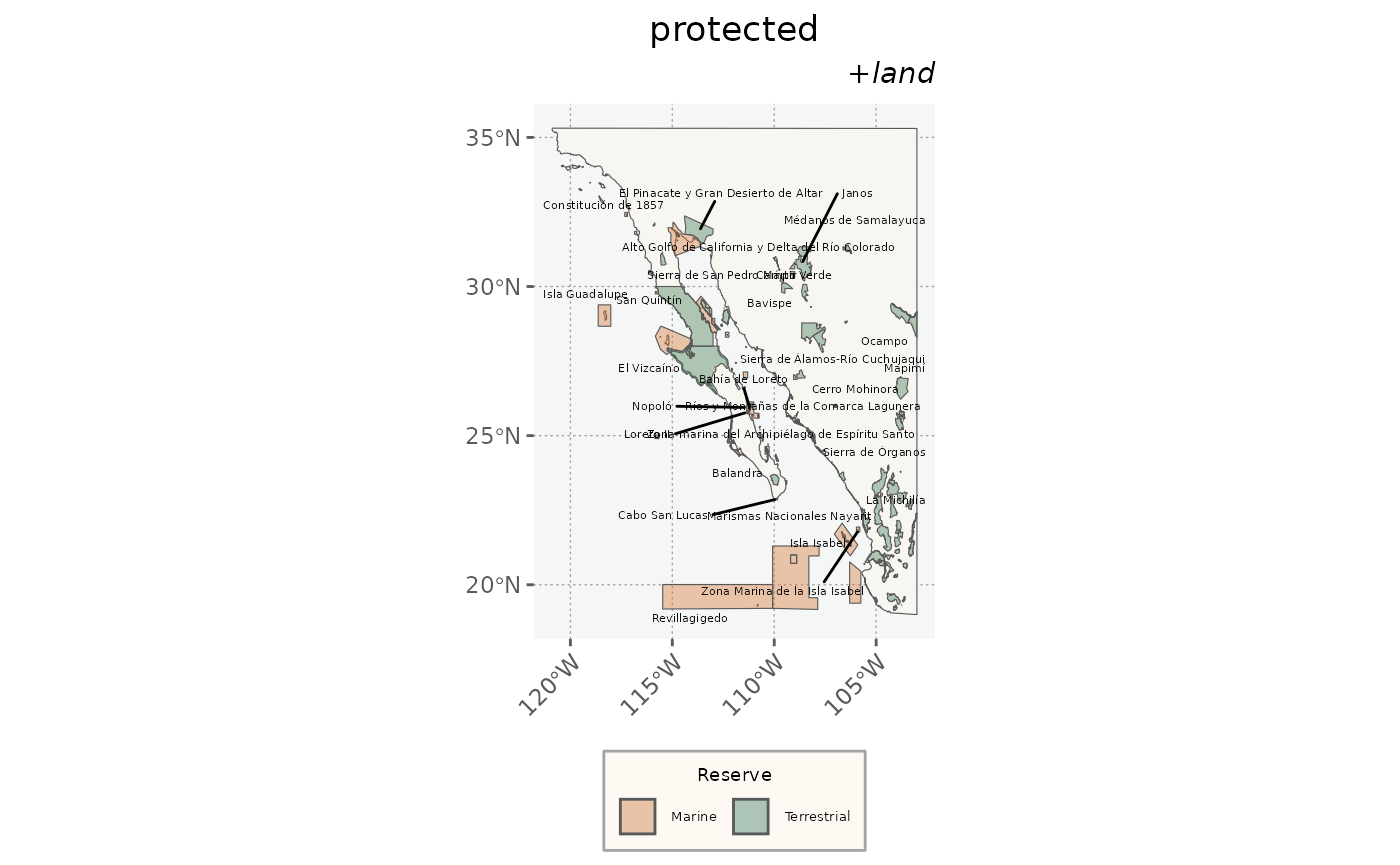
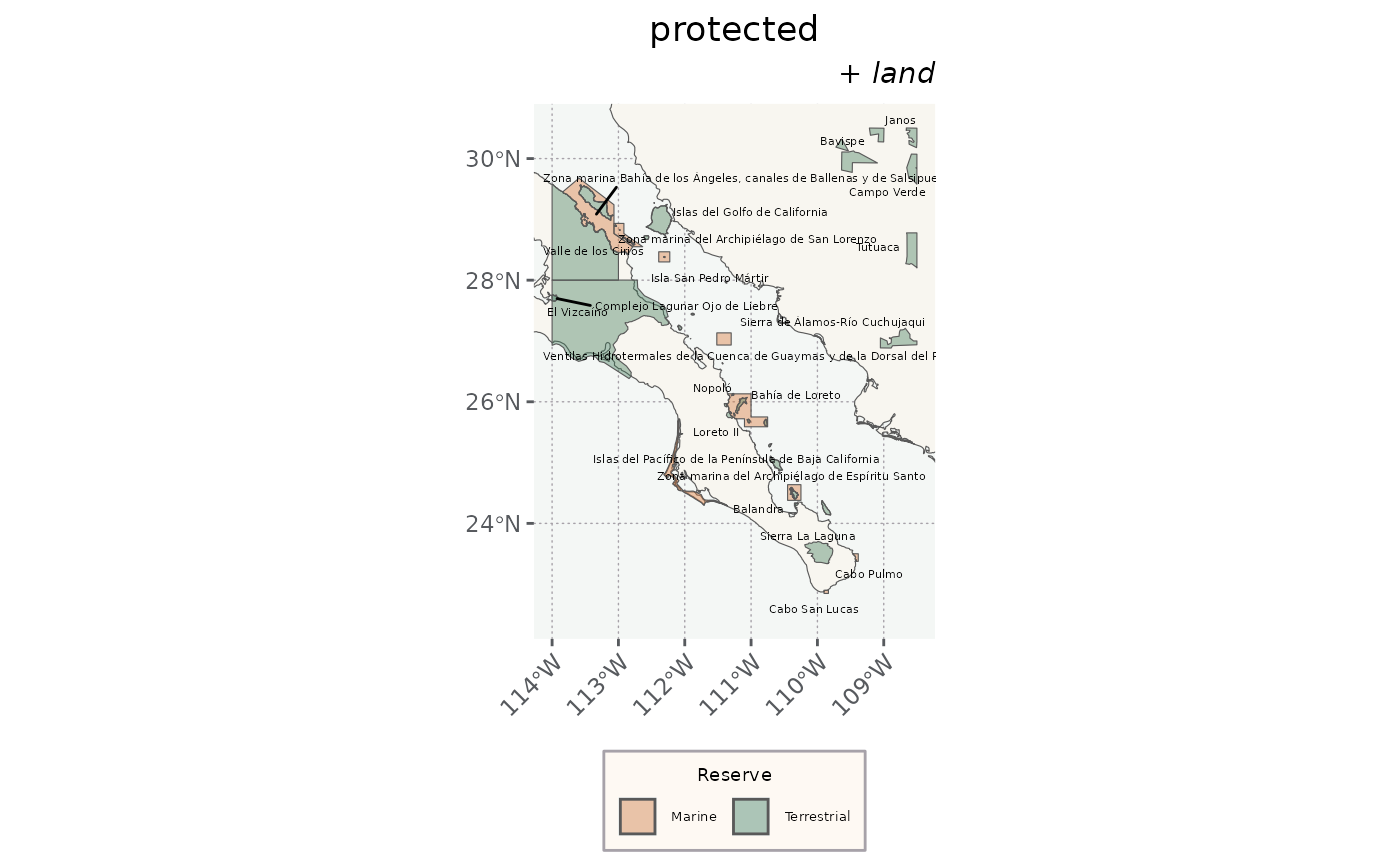
Deploying to gh-pages from @ sagesteppe/flyer@26eead654c536fb9c054ce7b061744b693b34bc3 🚀

diff --git a/articles/ExploreDataSets.html b/articles/ExploreDataSets.html
@@ -315,8 +315,7 @@ and returned to Monterey, most all data focuses on the Gulf of Mexico.
 Basically, too much data would make the package too cumbersome to fit on
 CRAN. In my mind the maximum map area reaches San Diego in the North</p>
 <div class="sourceCode" id="cb10"><pre class="downlit sourceCode r">
-<code class="sourceCode R"><span></span>
-<span><span class="va">bb</span> <span class="op">&lt;-</span> <span class="fu"><a href="https://r-spatial.github.io/sf/reference/st_bbox.html" class="external-link">st_bbox</a></span><span class="op">(</span></span>
+<code class="sourceCode R"><span><span class="va">bb</span> <span class="op">&lt;-</span> <span class="fu"><a href="https://r-spatial.github.io/sf/reference/st_bbox.html" class="external-link">st_bbox</a></span><span class="op">(</span></span>
 <span>  <span class="fu"><a href="https://rdrr.io/r/base/c.html" class="external-link">c</a></span><span class="op">(</span>xmin <span class="op">=</span> <span class="op">-</span><span class="fl">114</span>, xmax <span class="op">=</span> <span class="op">-</span><span class="fl">108.5</span>, ymin <span class="op">=</span> <span class="fl">22.5</span>, ymax <span class="op">=</span> <span class="fl">30.5</span><span class="op">)</span>,</span>
 <span>  crs <span class="op">=</span> <span class="fu"><a href="https://r-spatial.github.io/sf/reference/st_crs.html" class="external-link">st_crs</a></span><span class="op">(</span><span class="fl">4326</span><span class="op">)</span></span>
 <span><span class="op">)</span></span>
@@ -439,12 +438,16 @@ mapping these classes.</p>
 <span>  <span class="fu"><a href="https://ggplot2.tidyverse.org/reference/ggsf.html" class="external-link">geom_sf</a></span><span class="op">(</span>data <span class="op">=</span> <span class="va">landcover</span>, <span class="fu"><a href="https://ggplot2.tidyverse.org/reference/aes.html" class="external-link">aes</a></span><span class="op">(</span>fill <span class="op">=</span> <span class="va">class</span><span class="op">)</span>, color <span class="op">=</span> <span class="cn">NA</span><span class="op">)</span> <span class="op">+</span> </span>
 <span>  <span class="fu"><a href="https://ggplot2.tidyverse.org/reference/scale_manual.html" class="external-link">scale_fill_manual</a></span><span class="op">(</span><span class="st">'Class'</span>, values <span class="op">=</span> <span class="va">lc_pal</span><span class="op">)</span> <span class="op">+</span> </span>
 <span>  <span class="fu">theme_nautical</span><span class="op">(</span><span class="op">)</span> <span class="op">+</span> </span>
-<span>  <span class="fu"><a href="https://ggplot2.tidyverse.org/reference/labs.html" class="external-link">labs</a></span><span class="op">(</span>title <span class="op">=</span> <span class="st">'landcover'</span>, subtitle <span class="op">=</span> <span class="st">'+ lc_pal'</span><span class="op">)</span></span></code></pre></div>
+<span>  <span class="fu"><a href="https://ggplot2.tidyverse.org/reference/labs.html" class="external-link">labs</a></span><span class="op">(</span>title <span class="op">=</span> <span class="st">'landcover'</span>, subtitle <span class="op">=</span> <span class="st">'+ lc_pal'</span><span class="op">)</span> <span class="op">+</span> </span>
+<span>  <span class="fu"><a href="https://ggplot2.tidyverse.org/reference/ggsf.html" class="external-link">coord_sf</a></span><span class="op">(</span>xlim <span class="op">=</span> <span class="fu"><a href="https://rdrr.io/r/base/c.html" class="external-link">c</a></span><span class="op">(</span><span class="va">bb</span><span class="op">[</span><span class="fl">1</span><span class="op">]</span>, <span class="va">bb</span><span class="op">[</span><span class="fl">3</span><span class="op">]</span><span class="op">)</span>, ylim <span class="op">=</span> <span class="fu"><a href="https://rdrr.io/r/base/c.html" class="external-link">c</a></span><span class="op">(</span><span class="va">bb</span><span class="op">[</span><span class="fl">2</span><span class="op">]</span>, <span class="va">bb</span><span class="op">[</span><span class="fl">4</span><span class="op">]</span><span class="op">)</span><span class="op">)</span></span></code></pre></div>
 <p><img src="ExploreDataSets_files/figure-html/unnamed-chunk-3-1.png" width="700"></p>
 <p>Additionally, information on protected areas of Mexico are also
 included.</p>
 <div class="sourceCode" id="cb15"><pre class="downlit sourceCode r">
-<code class="sourceCode R"><span><span class="fu"><a href="https://ggplot2.tidyverse.org/reference/ggplot.html" class="external-link">ggplot</a></span><span class="op">(</span><span class="op">)</span> <span class="op">+</span> </span>
+<code class="sourceCode R"><span></span>
+<span><span class="va">protected</span> <span class="op">&lt;-</span> <span class="fu"><a href="https://r-spatial.github.io/sf/reference/st_crop.html" class="external-link">st_crop</a></span><span class="op">(</span><span class="va">protected</span>, <span class="va">bb</span><span class="op">)</span></span>
+<span></span>
+<span><span class="fu"><a href="https://ggplot2.tidyverse.org/reference/ggplot.html" class="external-link">ggplot</a></span><span class="op">(</span><span class="op">)</span> <span class="op">+</span> </span>
 <span>  <span class="fu"><a href="https://ggplot2.tidyverse.org/reference/ggsf.html" class="external-link">geom_sf</a></span><span class="op">(</span>data <span class="op">=</span> <span class="va">land</span>, fill <span class="op">=</span> <span class="st">'#F8F6F0'</span><span class="op">)</span> <span class="op">+</span> </span>
 <span>  <span class="fu"><a href="https://ggplot2.tidyverse.org/reference/ggsf.html" class="external-link">geom_sf</a></span><span class="op">(</span></span>
 <span>    data <span class="op">=</span> <span class="va">protected</span>, </span>
@@ -457,9 +460,10 @@ included.</p>
 <span>    stat <span class="op">=</span> <span class="st">"sf_coordinates"</span>,</span>
 <span>    size <span class="op">=</span> <span class="fl">1.5</span></span>
 <span>    <span class="op">)</span> <span class="op">+</span> </span>
-<span>  <span class="fu"><a href="https://ggplot2.tidyverse.org/reference/labs.html" class="external-link">labs</a></span><span class="op">(</span>x <span class="op">=</span> <span class="cn">NULL</span>, y <span class="op">=</span> <span class="cn">NULL</span>, title <span class="op">=</span> <span class="st">'protected'</span>, subtitle <span class="op">=</span> <span class="st">'+land'</span><span class="op">)</span> <span class="op">+</span> </span>
+<span>  <span class="fu"><a href="https://ggplot2.tidyverse.org/reference/labs.html" class="external-link">labs</a></span><span class="op">(</span>x <span class="op">=</span> <span class="cn">NULL</span>, y <span class="op">=</span> <span class="cn">NULL</span>, title <span class="op">=</span> <span class="st">'protected'</span>, subtitle <span class="op">=</span> <span class="st">'+ land'</span><span class="op">)</span> <span class="op">+</span> </span>
 <span></span>
-<span>  <span class="fu">theme_nautical</span><span class="op">(</span><span class="op">)</span></span></code></pre></div>
+<span>  <span class="fu">theme_nautical</span><span class="op">(</span><span class="op">)</span>  <span class="op">+</span> </span>
+<span>  <span class="fu"><a href="https://ggplot2.tidyverse.org/reference/ggsf.html" class="external-link">coord_sf</a></span><span class="op">(</span>xlim <span class="op">=</span> <span class="fu"><a href="https://rdrr.io/r/base/c.html" class="external-link">c</a></span><span class="op">(</span><span class="va">bb</span><span class="op">[</span><span class="fl">1</span><span class="op">]</span>, <span class="va">bb</span><span class="op">[</span><span class="fl">3</span><span class="op">]</span><span class="op">)</span>, ylim <span class="op">=</span> <span class="fu"><a href="https://rdrr.io/r/base/c.html" class="external-link">c</a></span><span class="op">(</span><span class="va">bb</span><span class="op">[</span><span class="fl">2</span><span class="op">]</span>, <span class="va">bb</span><span class="op">[</span><span class="fl">4</span><span class="op">]</span><span class="op">)</span><span class="op">)</span></span></code></pre></div>
 <p><img src="ExploreDataSets_files/figure-html/Protected%20areas-1.png" width="700"></p>
 </div>
 </div>
@@ -468,8 +472,7 @@ included.</p>
 </h2>
 <p>We can make an OK map using some of the details below.</p>
 <div class="sourceCode" id="cb16"><pre class="downlit sourceCode r">
-<code class="sourceCode R"><span></span>
-<span><span class="fu"><a href="https://ggplot2.tidyverse.org/reference/ggplot.html" class="external-link">ggplot</a></span><span class="op">(</span><span class="op">)</span> <span class="op">+</span> </span>
+<code class="sourceCode R"><span><span class="fu"><a href="https://ggplot2.tidyverse.org/reference/ggplot.html" class="external-link">ggplot</a></span><span class="op">(</span><span class="op">)</span> <span class="op">+</span> </span>
 <span>  </span>
 <span>  <span class="co"># the stage</span></span>
 <span>  <span class="fu"><a href="https://ggplot2.tidyverse.org/reference/ggsf.html" class="external-link">geom_sf</a></span><span class="op">(</span>data <span class="op">=</span> <span class="va">landcover</span>, <span class="fu"><a href="https://ggplot2.tidyverse.org/reference/aes.html" class="external-link">aes</a></span><span class="op">(</span>fill <span class="op">=</span> <span class="va">class</span><span class="op">)</span><span class="op">)</span> <span class="op">+</span> </span>
@@ -497,7 +500,6 @@ included.</p>
 <span>    fill <span class="op">=</span> <span class="st">'#F4F7F5'</span></span>
 <span>    <span class="op">)</span> <span class="op">+</span></span>
 <span>  </span>
-<span>  </span>
 <span>  <span class="co"># the ambiance.  </span></span>
 <span>  <span class="fu"><a href="https://ggplot2.tidyverse.org/reference/ggsf.html" class="external-link">coord_sf</a></span><span class="op">(</span>xlim <span class="op">=</span> <span class="fu"><a href="https://rdrr.io/r/base/c.html" class="external-link">c</a></span><span class="op">(</span><span class="va">bb</span><span class="op">[</span><span class="fl">1</span><span class="op">]</span>, <span class="va">bb</span><span class="op">[</span><span class="fl">3</span><span class="op">]</span><span class="op">)</span>, ylim <span class="op">=</span> <span class="fu"><a href="https://rdrr.io/r/base/c.html" class="external-link">c</a></span><span class="op">(</span><span class="va">bb</span><span class="op">[</span><span class="fl">2</span><span class="op">]</span>, <span class="va">bb</span><span class="op">[</span><span class="fl">4</span><span class="op">]</span><span class="op">)</span>, crs <span class="op">=</span> <span class="fl">4326</span><span class="op">)</span> <span class="op">+</span> </span>
 <span>  <span class="fu"><a href="https://paleolimbot.github.io/ggspatial/reference/annotation_scale.html" class="external-link">annotation_scale</a></span><span class="op">(</span>bar_cols <span class="op">=</span> <span class="fu"><a href="https://rdrr.io/r/base/c.html" class="external-link">c</a></span><span class="op">(</span><span class="st">'#222823'</span>, <span class="st">'#F4F7F5'</span><span class="op">)</span><span class="op">)</span>  <span class="op">+</span> </span>
@@ -507,6 +509,17 @@ included.</p>
 <span><span class="co">#&gt; Warning in st_point_on_surface.sfc(sf::st_zm(x)): st_point_on_surface may not</span></span>
 <span><span class="co">#&gt; give correct results for longitude/latitude data</span></span></code></pre></div>
 <p><img src="ExploreDataSets_files/figure-html/unnamed-chunk-4-1.png" width="700"></p>
+<div class="sourceCode" id="cb17"><pre class="downlit sourceCode r">
+<code class="sourceCode R"><span><span class="fu"><a href="https://rdrr.io/r/base/rm.html" class="external-link">rm</a></span><span class="op">(</span><span class="va">graticNo</span>, <span class="va">brks</span>, <span class="va">theme_nautical</span>, <span class="va">route</span>, <span class="va">places</span>, <span class="va">bb</span>, <span class="va">landcover</span>, <span class="va">lc_pal</span>, <span class="va">land</span>,</span>
+<span>   <span class="va">protected</span>, <span class="va">bathymetry</span>, <span class="va">topography</span><span class="op">)</span></span>
+<span><span class="co">#&gt; Warning in rm(graticNo, brks, theme_nautical, route, places, bb, landcover, :</span></span>
+<span><span class="co">#&gt; object 'landcover' not found</span></span>
+<span><span class="co">#&gt; Warning in rm(graticNo, brks, theme_nautical, route, places, bb, landcover, :</span></span>
+<span><span class="co">#&gt; object 'lc_pal' not found</span></span>
+<span><span class="co">#&gt; Warning in rm(graticNo, brks, theme_nautical, route, places, bb, landcover, :</span></span>
+<span><span class="co">#&gt; object 'bathymetry' not found</span></span>
+<span><span class="co">#&gt; Warning in rm(graticNo, brks, theme_nautical, route, places, bb, landcover, :</span></span>
+<span><span class="co">#&gt; object 'topography' not found</span></span></code></pre></div>
 </div>
   </main><aside class="col-md-3"><nav id="toc" aria-label="Table of contents"><h2>On this page</h2>
     </nav></aside>
